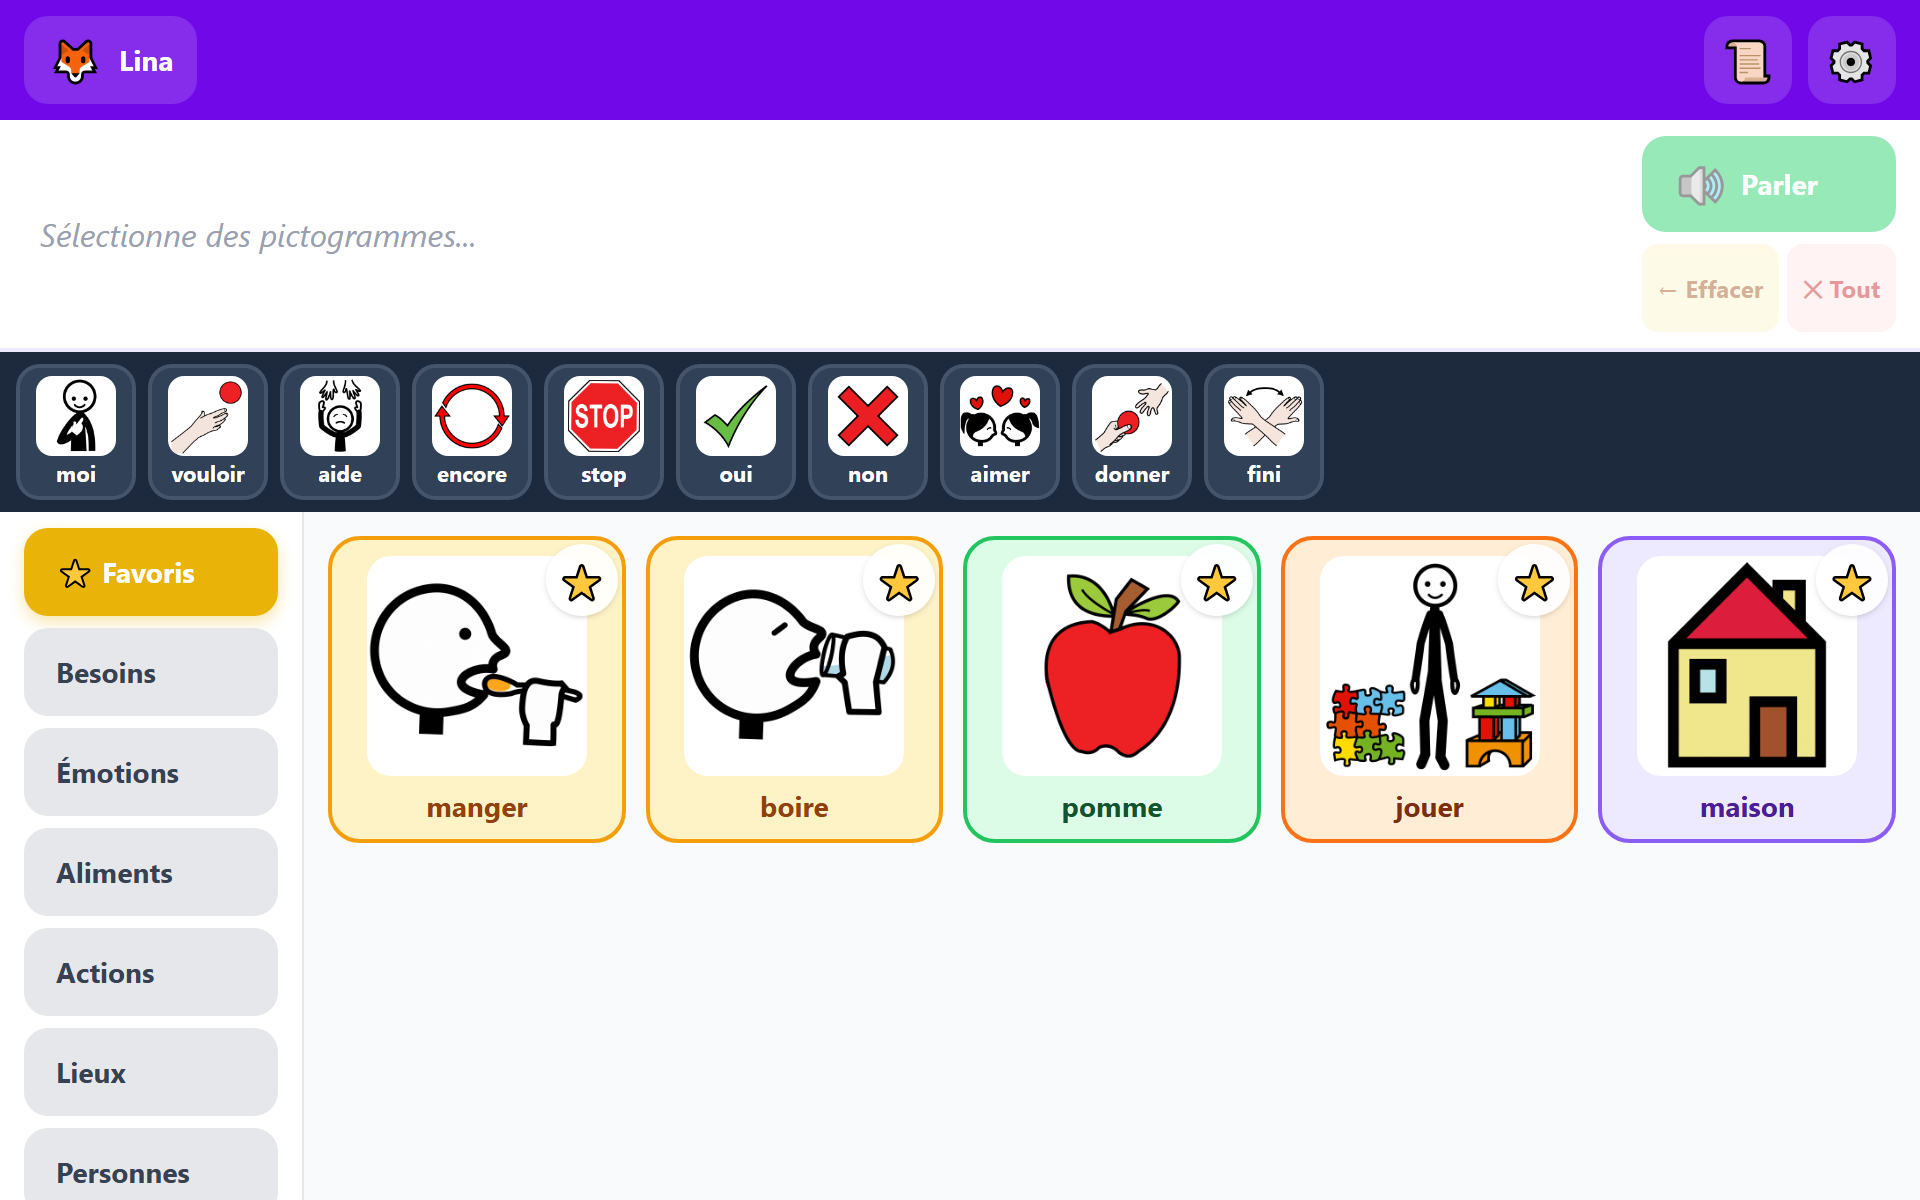
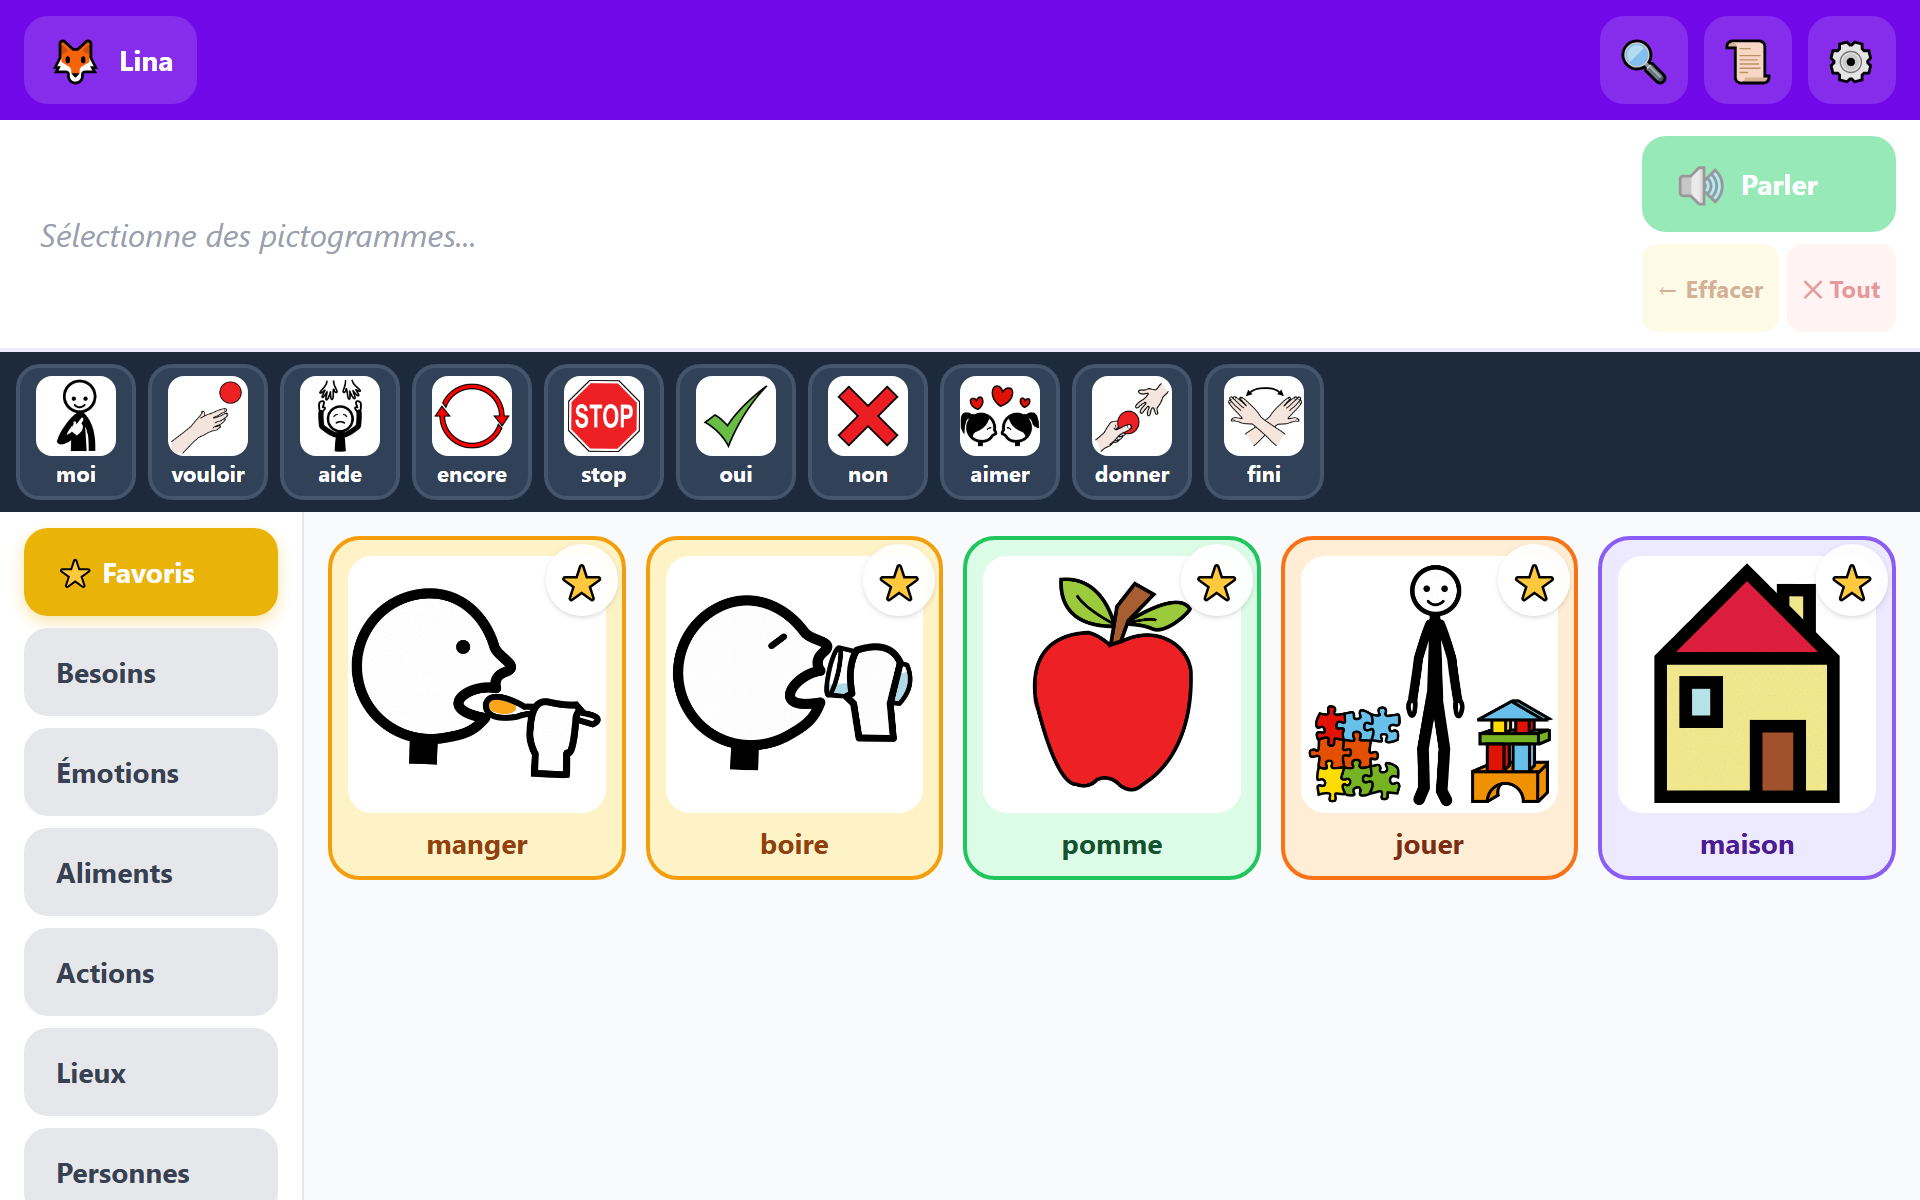
Confier au réglage de taille le nombre de colonnes, pas la vignette
Suite directe de la grille à colonnes déclarées : la vignette restait
plafonnée en pixels, si bien que sur une tablette de 10 pouces une petite
image flottait au milieu d'une carte deux fois plus large.

La vignette remplit désormais sa colonne. Moins de colonnes donne de plus
grandes images, ce qui est exactement ce qu'on attend de « L », et le
réglage retrouve un sens unique : la densité de la grille.

Captures de la fiche régénérées — elles montraient encore l'ancienne
disposition, et la barre supérieure sans le bouton de recherche.

Claude-Session: https://claude.ai/code/session_017JvUuQKK9q7kbg7zhTPVFq

Changed region(s): [[0.1562, 0.4625, 1.0, 0.74], [0.8125, 0.0, 0.9062, 0.0925]]

diff --git a/src/components/PictogramCard.tsx b/src/components/PictogramCard.tsx
@@ -11,10 +11,18 @@ interface Props {
   showFavorite?: boolean
 }
 
-const sizeMap: Record<PictogramSize, { img: number; text: string; padding: string }> = {
-  S: { img: 80, text: 'text-xs', padding: 'p-1.5' },
-  M: { img: 110, text: 'text-sm', padding: 'p-2' },
-  L: { img: 140, text: 'text-base', padding: 'p-2.5' },
+/**
+ * Le réglage de taille ne dimensionne plus la vignette : il commande le nombre
+ * de colonnes de la grille (voir `index.css`), et la vignette remplit la
+ * colonne qui lui échoit. Moins de colonnes donne donc de plus grandes images,
+ * ce qui est exactement ce qu'on attend de « L » — alors qu'une taille en
+ * pixels durs laissait, sur une tablette de 10 pouces, une petite image perdue
+ * au milieu d'une carte deux fois plus large.
+ */
+const sizeMap: Record<PictogramSize, { text: string; padding: string }> = {
+  S: { text: 'text-xs', padding: 'p-1.5' },
+  M: { text: 'text-sm', padding: 'p-2' },
+  L: { text: 'text-base', padding: 'p-2.5' },
 }
 
 export default function PictogramCard({
@@ -40,17 +48,9 @@ export default function PictogramCard({
         onClick={() => onClick(picto)}
         aria-label={picto.word}
       >
-        {/*
-          La vignette suit la largeur de sa colonne, plafonnée à la taille
-          choisie : le nombre de colonnes étant désormais fixe, une taille en
-          pixels durs déborderait sur un écran étroit.
-        */}
-        <div
-          className="flex aspect-square w-full items-center justify-center overflow-hidden rounded-xl bg-white"
-          style={{ maxWidth: s.img, maxHeight: s.img }}
-        >
+        <div className="flex aspect-square w-full items-center justify-center overflow-hidden rounded-xl bg-white">
           {failed || !src ? (
-            <span style={{ fontSize: s.img * 0.45 }}>🖼</span>
+            <span className="text-4xl">🖼</span>
           ) : (
             <img
               src={src}

diff --git a/docs/AUDIT.md b/docs/AUDIT.md
@@ -14,7 +14,7 @@ Les lots livrés depuis le 2026-09-02 sont vérifiés dans le code, et pas seule
 
 Numérotés N1 à N12, du plus au moins urgent. Les six premiers touchent directement l'enfant utilisateur ; les suivants sont des dettes qui coûteront cher au moment de l'empaquetage.
 
-> ✅ **Lot du 2026-09-09 (commits `b0534ba` et `94b708f`) : N1, N2, N3, N5, N7 et N8 sont traités**, captures de la fiche régénérées dans la foulée. Restent ouverts N4 (positions de grille), N6 (verrou parental), N9 (recherche hors ligne), N10 (stratégie de version), N11 (chemins absolus) et N12 (vérifications sur appareil).
+> ✅ **Au 2026-09-09, dix des douze constats sont traités** : N1, N2, N3, N5, N7 et N8 (lot de revue), N10 et N12 (empaquetage), N4 et N6 (lot CAA). **Restent ouverts N9** (recherche ARASAAC hors ligne indiscernable d'un résultat vide) **et N11** (chemins absolus, sans effet tant que l'application n'est pas hébergée).
 
 ✅ **N1 — Le libellé des pictogrammes échouait au contraste minimal, et la couleur prévue pour lui n'était utilisée nulle part.** *(corrigé le 2026-09-09 : le libellé est écrit en `Category.color`, de 6,4 à 13,3:1)*
 
@@ -41,7 +41,7 @@ Le minimum WCAG AA est de 4,5:1 pour du texte de cette taille (12 à 16 px) : **
 
 `App.tsx:118` vide `sentence` juste après avoir parlé. Or la situation la plus banale en CAA est qu'on redemande à l'enfant de répéter : l'adulte n'a pas entendu, n'a pas compris, ou un tiers arrive. L'enfant doit alors reconstruire toute sa phrase, pictogramme par pictogramme. Les outils de référence conservent le message affiché jusqu'à un effacement explicite — et l'application possède déjà les deux boutons pour cela (`← Effacer`, `✕ Tout`). L'historique ne compense pas : il est derrière un bouton, dans une surcouche, et rejoue des mots sans réafficher la phrase. Conserver la phrase après lecture tient en une ligne ; c'est probablement le meilleur rapport valeur/effort de tout ce document.
 
-**N4 — La position des pictogrammes bouge encore, pour trois raisons distinctes.** *(planification motrice — déjà en §4, ici précisé)*
+✅ **N4 — La position des pictogrammes bougeait pour trois raisons distinctes.** *(corrigé le 2026-09-09 : un pictogramme masqué laisse sa case vide, et le nombre de colonnes est déclaré par palier au lieu d'être déduit de la place disponible. Restent la rotation et le changement de taille — deux gestes délibérés de l'adulte, le second désormais derrière le code parent.)*
 
 Le constat de septembre ne visait que le nombre de colonnes. La relecture en isole trois causes, à traiter séparément :
 
@@ -55,7 +55,7 @@ Piste cohérente avec le reste : un nombre de colonnes **fixe par réglage de ta
 
 Mesures dans le code : l'étoile de favori fait 36 px (`h-9 w-9`, `PictogramCard.tsx:71`), les onglets de catégorie environ 36 px de haut (`px-4 py-2` sur du `text-sm`), et les boutons `← Effacer` / `✕ Tout` environ 28 px (`py-1.5` sur du `text-xs`, `SentenceBar.tsx:88-100`). Les recommandations Android (48 dp) comme WCAG 2.5.5 (44 px) ne sont donc pas tenues, pour un public dont une partie a des troubles moteurs associés. Les grandes cartes de pictogrammes, elles, sont largement au-dessus : l'écart ne concerne que les commandes périphériques.
 
-**N6 — L'étoile reste à portée de l'enfant, et le verrou parental reste absent.** *(réserve ouverte depuis le 2026-09-03, confirmée)*
+✅ **N6 — L'étoile restait à portée de l'enfant, et le verrou parental était absent.** *(corrigé le 2026-09-09 : code à quatre chiffres sur les réglages, le changement de profil et les étoiles, qui disparaissent alors de la grille)*
 
 Rien n'a changé : l'étoile est un bouton frère de la carte, toujours actif, et les Paramètres s'ouvrent en un appui (`App.tsx:196`). Un enfant qui vise son mot peut poser un favori à la place, ou entrer dans les réglages et masquer des pictogrammes. Le verrouillage par code parental (§4) résout les deux d'un coup et lèverait la réserve ; c'est le premier candidat du lot CAA.
 
@@ -95,7 +95,7 @@ L'ordre change sur un point décidé par l'éditeur le 2026-09-09 : **l'étape 7
 
 1. ~~**Lot « corrections de revue »** — N1, N2, N3, N7, N8, puis N5.~~ ✅ **Livré le 2026-09-09**, captures régénérées. 8 tests ajoutés (103 au total).
 2. ~~**Étape 1 — empaquetage Capacitor**, en traitant N10 (versions) comme prérequis et N12 comme protocole de vérification sur appareil.~~ ✅ **Livrée le 2026-09-09.** Projet Capacitor 7, bundle signé, et les six vérifications sur tablette passées — dont la synthèse vocale, qui a demandé de passer par le moteur du système (§5). Il existe désormais un fichier publiable.
-3. **Lot CAA** — verrou parental (N6, qui lève aussi la réserve de l'étoile), puis positions stables (N4), puis recherche de mot pendant la composition (§4). Ce sont les trois écarts qui séparent encore l'application des outils de référence.
+3. ~~**Lot CAA** — verrou parental (N6), positions stables (N4), recherche de mot pendant la composition (§4).~~ ✅ **Livré le 2026-09-09.** Les trois écarts sont comblés ; 121 tests.
 4. **Étape 7 — Play Console**, en dernier : compte développeur, questionnaire de classification, audience, test fermé, publication.
 
 N9 et N11 se traitent au passage, dans le lot qui touche au fichier concerné.
@@ -225,9 +225,9 @@ Comparaison avec les applications de référence en communication alternative et
 
 - ✅ **[Implémenté le 2026-09-02] Vocabulaire "core" toujours accessible.** Rangée de mots fonctionnels fréquents (moi, veux, encore, stop, aide, oui, non, aimer, donner, fini), indépendante de la catégorie affichée, pour construire des phrases spontanées. Activable/désactivable dans les réglages.
 - **Codage couleur grammatical (clé de Fitzgerald).** Le standard professionnel colore les pictogrammes par fonction grammaticale (jaune = pronoms, vert = verbes, bleu = adjectifs, orange = noms...) plutôt que par thème, pour aider à construire une syntaxe correcte. PictoLanguage colore par catégorie thématique (couleur = "besoins", "émotions"...), pas par grammaire — c'est un choix différent du standard CAA, à assumer consciemment ou à faire évoluer.
-- **Position fixe des pictogrammes (planification motrice).** Principe CAA bien documenté : un pictogramme donné doit toujours occuper la même position pour créer un automatisme moteur chez l'enfant. La grille actuelle (`grid-template-columns: repeat(auto-fill, ...)`) recalcule dynamiquement les positions selon le nombre d'éléments visibles — la position d'un picto peut bouger d'une session à l'autre.
-- **Recherche de mots dans l'appli principale.** Le comparatif professionnel CAAPABLES cite la capacité de recherche comme critère de sélection. PictoLanguage n'a une recherche ARASAAC que dans les réglages pour ajouter un picto personnalisé, pas de barre de recherche pour retrouver rapidement un mot existant pendant la composition d'une phrase.
-- **Verrouillage des réglages (code parental).** Les réglages sont accessibles en un tap sans protection : un enfant peut supprimer des pictogrammes ou changer les réglages par erreur. Un code PIN pour entrer en mode "édition/réglages" est une fonctionnalité standard des apps CAA pour enfants.
+- ✅ **[Comblé le 2026-09-09] Position fixe des pictogrammes (planification motrice).** Le masquage laisse la case vide au lieu de refermer le trou, et le nombre de colonnes est déclaré par palier au lieu d'être déduit de la place disponible. Voir N4.
+- ✅ **[Comblé le 2026-09-09] Recherche de mots dans l'appli principale.** Bouton 🔍 de la barre supérieure : recherche dans le vocabulaire installé, catégories et pictogrammes personnalisés confondus, accents ignorés. La recherche ARASAAC des réglages reste distincte — elle sert à *ajouter*, pas à *retrouver*.
+- ✅ **[Comblé le 2026-09-09] Verrouillage des réglages (code parental).** Code à quatre chiffres sur les réglages, le changement de profil et les étoiles de favori, avec sortie par question de calcul en cas d'oubli. Voir N6.
 
 ### Priorité moyenne — différenciants forts, largement présents chez la concurrence
 
@@ -251,6 +251,7 @@ Comparaison avec les applications de référence en communication alternative et
 - [Visual Voice — application CAA francophone](https://visualvoice.app/)
 
 ## 5. Journal d'implémentation
+- **2026-09-09** — **Lot CAA** (§0.C n° 3) : les trois écarts de priorité haute encore ouverts face aux outils de référence sont comblés. **Verrou parental** — code à quatre chiffres sur les réglages, le changement de profil et les étoiles, qui disparaissent de la grille ; le code vit hors des profils (le ranger dans l'un d'eux permettrait d'en changer pour contourner le verrou) et le mode parent n'est pas persisté, sinon il resterait ouvert des jours sur la tablette d'un enfant. L'oubli du code se répare par une question de calcul mental — le « portail parental » reconnu par Play Families — qui évite d'enfermer un parent hors de ses propres données, l'export vivant lui aussi derrière le verrou. **Positions stables** — un pictogramme masqué garde sa case, vide : le filtrer décalait tout ce qui suivait, si bien que la fonctionnalité censée alléger la grille déplaçait ce qu'elle laissait. Les colonnes sont désormais déclarées par palier plutôt que déduites de la place disponible. **Recherche** — bouton 🔍, sur le vocabulaire installé, accents ignorés, pictogrammes masqués exclus. **Défaut latent trouvé au passage :** `createProfile` et `deleteProfile` reconstruisaient l'objet stocké sans reprendre l'existant ; ils auraient effacé le code parent, et tout champ ajouté plus tard hors des profils. 21 tests ajoutés (121 au total), trois tests de masquage réécrits — ils décrivaient la règle que N4 change.
 - **2026-09-09** — **Empaquetage Android (étape 1) et panne de la voix.** Projet Capacitor 7 en place, SDK installé, apk et bundle signé produits (voir `EMPAQUETAGE-ANDROID.md`). **Le premier essai sur tablette a révélé que l'application était totalement muette, réseau ou pas** : la WebView d'Android n'implémente pas l'API Web Speech, là où Chrome l'implémente. `speechSynthesis.speak()` n'y lève aucune erreur — il ne se passe simplement rien, ce qui explique qu'aucun test automatisé ni aucune vérification en navigateur n'ait pu l'anticiper. La lecture passe désormais par le moteur de synthèse du système via `@capacitor-community/text-to-speech`, le chemin navigateur étant conservé pour le développement et la version web. Deux tests de non-régression ajoutés (105 au total), et un `console.error` en cas d'échec du moteur : sans lui, l'absence de son ne se distingue pas d'un moteur dépourvu de voix française. **Leçon à retenir :** N12 avait classé la voix comme première vérification sur appareil, mais en supposant le problème côté *choix* de la voix ; la vraie panne était un cran plus bas, dans l'existence même de l'API. Une capacité du navigateur ne se présume jamais dans une WebView.
 - **2026-09-09** — **Premier lot issu de la revue** (§0.C n° 1) : N1, N2, N3, N5, N7 et N8. Le libellé des pictogrammes passe au ton foncé de sa catégorie (`Category.color`, jusque-là mort dans le code) ; `PictogramItem` porte désormais sa catégorie de rangement, si bien qu'un mot garde sa couleur y compris dans les favoris — vérifié en capture, où l'onglet montre du jaune, du vert, de l'orange et du violet là où tout était jaune. La phrase composée survit à la lecture, et l'historique cesse d'enregistrer deux fois de suite la même phrase, conséquence directe du fait que « Parler » est maintenant appuyé plusieurs fois sur une même phrase. Cibles tactiles portées à 44 px, sauf l'étoile de favori, **laissée à 36 px à dessein** : l'agrandir aggraverait la mauvaise frappe par l'enfant, que seul le verrou parental corrigera. **Découverte de méthode :** en paysage sur écran bas, mettre les trois commandes de phrase en rangée plutôt que de les rétrécir donne à la fois des cibles plus grandes *et* une barre plus courte qu'avant — l'arbitrage supposé entre accessibilité et place disponible n'en était pas un. Un test d'application complet a été ajouté (`src/App.test.tsx`, amorcé par un profil écrit dans `localStorage`), ce qui a demandé de compléter `Element.scrollTo`, absent de jsdom. Vérifié par 103 tests, `eslint`, `npm run build` et des captures Chrome headless en portrait, tablette et téléphone couché (844×390).
 - **2026-09-09** — **Reprise complète de l'audit** (§0), sans modification de code. Les cinq lots livrés depuis le 2026-09-02 sont revérifiés dans le code ; §2.H est close. Douze constats nouveaux (N1 à N12), dont trois qui touchent l'enfant à chaque usage : le libellé des pictogrammes échoue au contraste WCAG dans les huit onglets (1,79 à 4,39:1) **alors que `Category.color`, la couleur foncée prévue pour cela, n'est lue par aucune ligne de code** ; la couleur d'une carte vient de l'onglet affiché et non du pictogramme, si bien que l'onglet Favoris repeint tout en jaune et annule le codage thématique ; et la phrase est effacée dès qu'elle est prononcée, alors que faire répéter un enfant est la situation la plus banale en CAA. Le reste tient de la dette : positions de grille encore mobiles pour trois raisons distinctes, cibles tactiles sous 48 dp, textes visibles portant encore « PictoLanguage », `Category.pictogramIds` jamais lu, recherche hors ligne muette, absence de stratégie de `versionCode` (prérequis de l'empaquetage) et cinq points à vérifier sur appareil dès le premier build Capacitor. **Méthode :** les ratios de contraste ont été calculés sur les couleurs réelles du code plutôt qu'estimés à l'œil — c'est ce calcul qui a révélé le champ mort, qu'une lecture visuelle aurait manqué. Feuille de route réordonnée en §0.C, l'étape 7 passant en fin de projet sur décision de l'éditeur.
